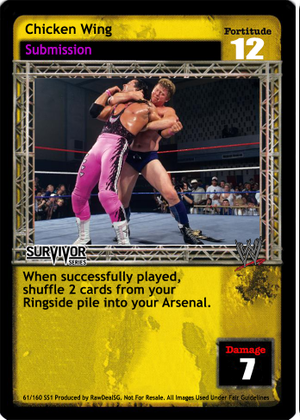
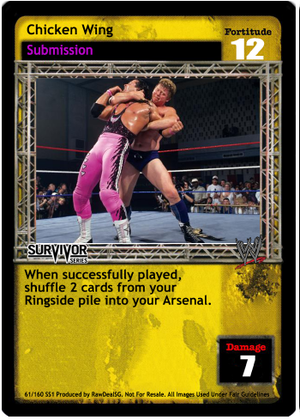
Fix card image cropping - remove black borders from Set 11-09 cards

diff --git a/scripts/recrop_set11.py b/scripts/recrop_set11.py
@@ -1,0 +1,115 @@
+#!/usr/bin/env python3
+"""Re-process ALL Set 11-09 card images with improved border detection."""
+from pathlib import Path
+from PIL import Image
+
+CARDS_DIR = Path(__file__).resolve().parent.parent / "public" / "cards"
+SET11_DIR = Path(__file__).resolve().parent.parent / "Decks" / "Set_11-09_extracted" / "word" / "media"
+
+TARGET_W, TARGET_H = 300, 420
+
+# All Set 11-09 new cards: (source_filename, output_slug)
+SET11_CARDS = [
+    ("image3.png", "no-chance-in-hell"),
+    ("image4.png", "hellfire-chokeslam"),
+    ("image10.png", "chicken-wing"),
+    ("image14.png", "and-the-crowd-roars"),
+    ("image18.png", "back-breaker-torture-rack"),
+    ("image19.png", "chain-lashing"),
+    ("image20.png", "shoot-kicker-hold"),
+    ("image24.png", "technical-splash-in-the-corner"),
+    ("image25.png", "german-suplex"),
+    ("image26.png", "commission-er-rules"),
+    ("image27.png", "j-r-style-slobber-knocker"),
+    ("image28.png", "bait-opponent"),
+    ("image29.png", "eye-rake"),
+    ("image32.png", "wrist-lock"),
+    ("image33.png", "judo-takedown"),
+    ("image34.png", "hair-pull"),
+    ("image35.png", "technical-monkey-flip"),
+    ("image36.png", "split-finger-lock"),
+    ("image37.png", "apply-illegal-leverage"),
+    ("image39.png", "technical-bear-hug"),
+    ("image41.png", "the-price-we-pay"),
+    ("image43.png", "jockeying-for-position"),
+    ("image44.png", "back-breaker"),
+    ("image45.png", "reverse-ddt"),
+]
+
+
+def detect_card_bbox(img: Image.Image):
+    """Detect card bounding box by finding non-black content."""
+    w, h = img.size
+    gray = img.convert("L")
+    gpx = gray.load()
+
+    threshold = 30
+
+    top = 0
+    for y in range(h):
+        row_bright = sum(1 for x in range(w) if gpx[x, y] > threshold)
+        if row_bright > w * 0.15:
+            top = y
+            break
+
+    bottom = h - 1
+    for y in range(h - 1, -1, -1):
+        row_bright = sum(1 for x in range(w) if gpx[x, y] > threshold)
+        if row_bright > w * 0.15:
+            bottom = y
+            break
+
+    left = 0
+    for x in range(w):
+        col_bright = sum(1 for y in range(h) if gpx[x, y] > threshold)
+        if col_bright > h * 0.15:
+            left = x
+            break
+
+    right = w - 1
+    for x in range(w - 1, -1, -1):
+        col_bright = sum(1 for y in range(h) if gpx[x, y] > threshold)
+        if col_bright > h * 0.15:
+            right = x
+            break
+
+    return left, top, right, bottom
+
+
+def process_card(src_path: Path, slug: str):
+    out_path = CARDS_DIR / f"{slug}.png"
+    img = Image.open(src_path).convert("RGB")
+    w, h = img.size
+
+    left, top, right, bottom = detect_card_bbox(img)
+    card_w = right - left
+    card_h = bottom - top
+
+    # Skip if card fills >85% of image (already good)
+    if card_w > w * 0.85 and card_h > h * 0.85:
+        card = img.crop((0, 0, w, h))
+    else:
+        # Add small padding
+        left = max(0, left - 1)
+        top = max(0, top - 1)
+        right = min(w - 1, right + 1)
+        bottom = min(h - 1, bottom + 1)
+        card = img.crop((left, top, right + 1, bottom + 1))
+
+    card = card.resize((TARGET_W, TARGET_H), Image.LANCZOS)
+    card.save(out_path, "PNG")
+    print(f"  {slug}.png ({w}x{h}) -> crop({left},{top},{right},{bottom}) = {right-left+1}x{bottom-top+1}")
+
+
+def main():
+    for filename, slug in SET11_CARDS:
+        src_path = SET11_DIR / filename
+        if not src_path.exists():
+            print(f"  MISSING: {src_path}")
+            continue
+        process_card(src_path, slug)
+    print("\nDone!")
+
+
+if __name__ == "__main__":
+    main()

diff --git a/scripts/fix_narrow_cards.py b/scripts/fix_narrow_cards.py
@@ -1,0 +1,100 @@
+#!/usr/bin/env python3
+"""Re-process 7 card images that were too narrow due to black borders."""
+import os
+from pathlib import Path
+from PIL import Image
+
+CARDS_DIR = Path(__file__).resolve().parent.parent / "public" / "cards"
+SET11_DIR = Path(__file__).resolve().parent.parent / "Decks" / "Set_11-09_extracted" / "word" / "media"
+
+TARGET_W, TARGET_H = 300, 420
+
+# Cards to re-process: (source_filename, output_slug)
+REPROCESS = [
+    ("image41.png", "the-price-we-pay"),
+    ("image14.png", "and-the-crowd-roars"),
+    ("image4.png", "hellfire-chokeslam"),
+    ("image3.png", "no-chance-in-hell"),
+    ("image18.png", "back-breaker-torture-rack"),
+    ("image19.png", "chain-lashing"),
+    ("image20.png", "shoot-kicker-hold"),
+]
+
+
+def detect_card_bbox(img: Image.Image):
+    """Detect card bounding box by finding non-black content."""
+    w, h = img.size
+    gray = img.convert("L")
+    gpx = gray.load()
+
+    # Find non-black pixels (threshold higher to exclude dark backgrounds)
+    threshold = 30
+
+    top = 0
+    for y in range(h):
+        row_bright = sum(1 for x in range(w) if gpx[x, y] > threshold)
+        if row_bright > w * 0.15:
+            top = y
+            break
+
+    bottom = h - 1
+    for y in range(h - 1, -1, -1):
+        row_bright = sum(1 for x in range(w) if gpx[x, y] > threshold)
+        if row_bright > w * 0.15:
+            bottom = y
+            break
+
+    left = 0
+    for x in range(w):
+        col_bright = sum(1 for y in range(h) if gpx[x, y] > threshold)
+        if col_bright > h * 0.15:
+            left = x
+            break
+
+    right = w - 1
+    for x in range(w - 1, -1, -1):
+        col_bright = sum(1 for y in range(h) if gpx[x, y] > threshold)
+        if col_bright > h * 0.15:
+            right = x
+            break
+
+    return left, top, right, bottom
+
+
+def process_card(src_path: Path, slug: str):
+    """Process a single card image."""
+    out_path = CARDS_DIR / f"{slug}.png"
+
+    img = Image.open(src_path).convert("RGB")
+    w, h = img.size
+    print(f"  Source: {src_path.name} ({w}x{h})")
+
+    left, top, right, bottom = detect_card_bbox(img)
+    card_w = right - left
+    card_h = bottom - top
+    print(f"  Detected card area: ({left},{top}) -> ({right},{bottom}) = {card_w}x{card_h}")
+
+    # Crop to card area with 1px padding
+    left = max(0, left - 1)
+    top = max(0, top - 1)
+    right = min(w - 1, right + 1)
+    bottom = min(h - 1, bottom + 1)
+
+    card = img.crop((left, top, right + 1, bottom + 1))
+    card = card.resize((TARGET_W, TARGET_H), Image.LANCZOS)
+    card.save(out_path, "PNG")
+    print(f"  Saved: {out_path.name}")
+
+
+def main():
+    for filename, slug in REPROCESS:
+        src_path = SET11_DIR / filename
+        if not src_path.exists():
+            print(f"  MISSING: {src_path}")
+            continue
+        process_card(src_path, slug)
+    print("\nDone!")
+
+
+if __name__ == "__main__":
+    main()
